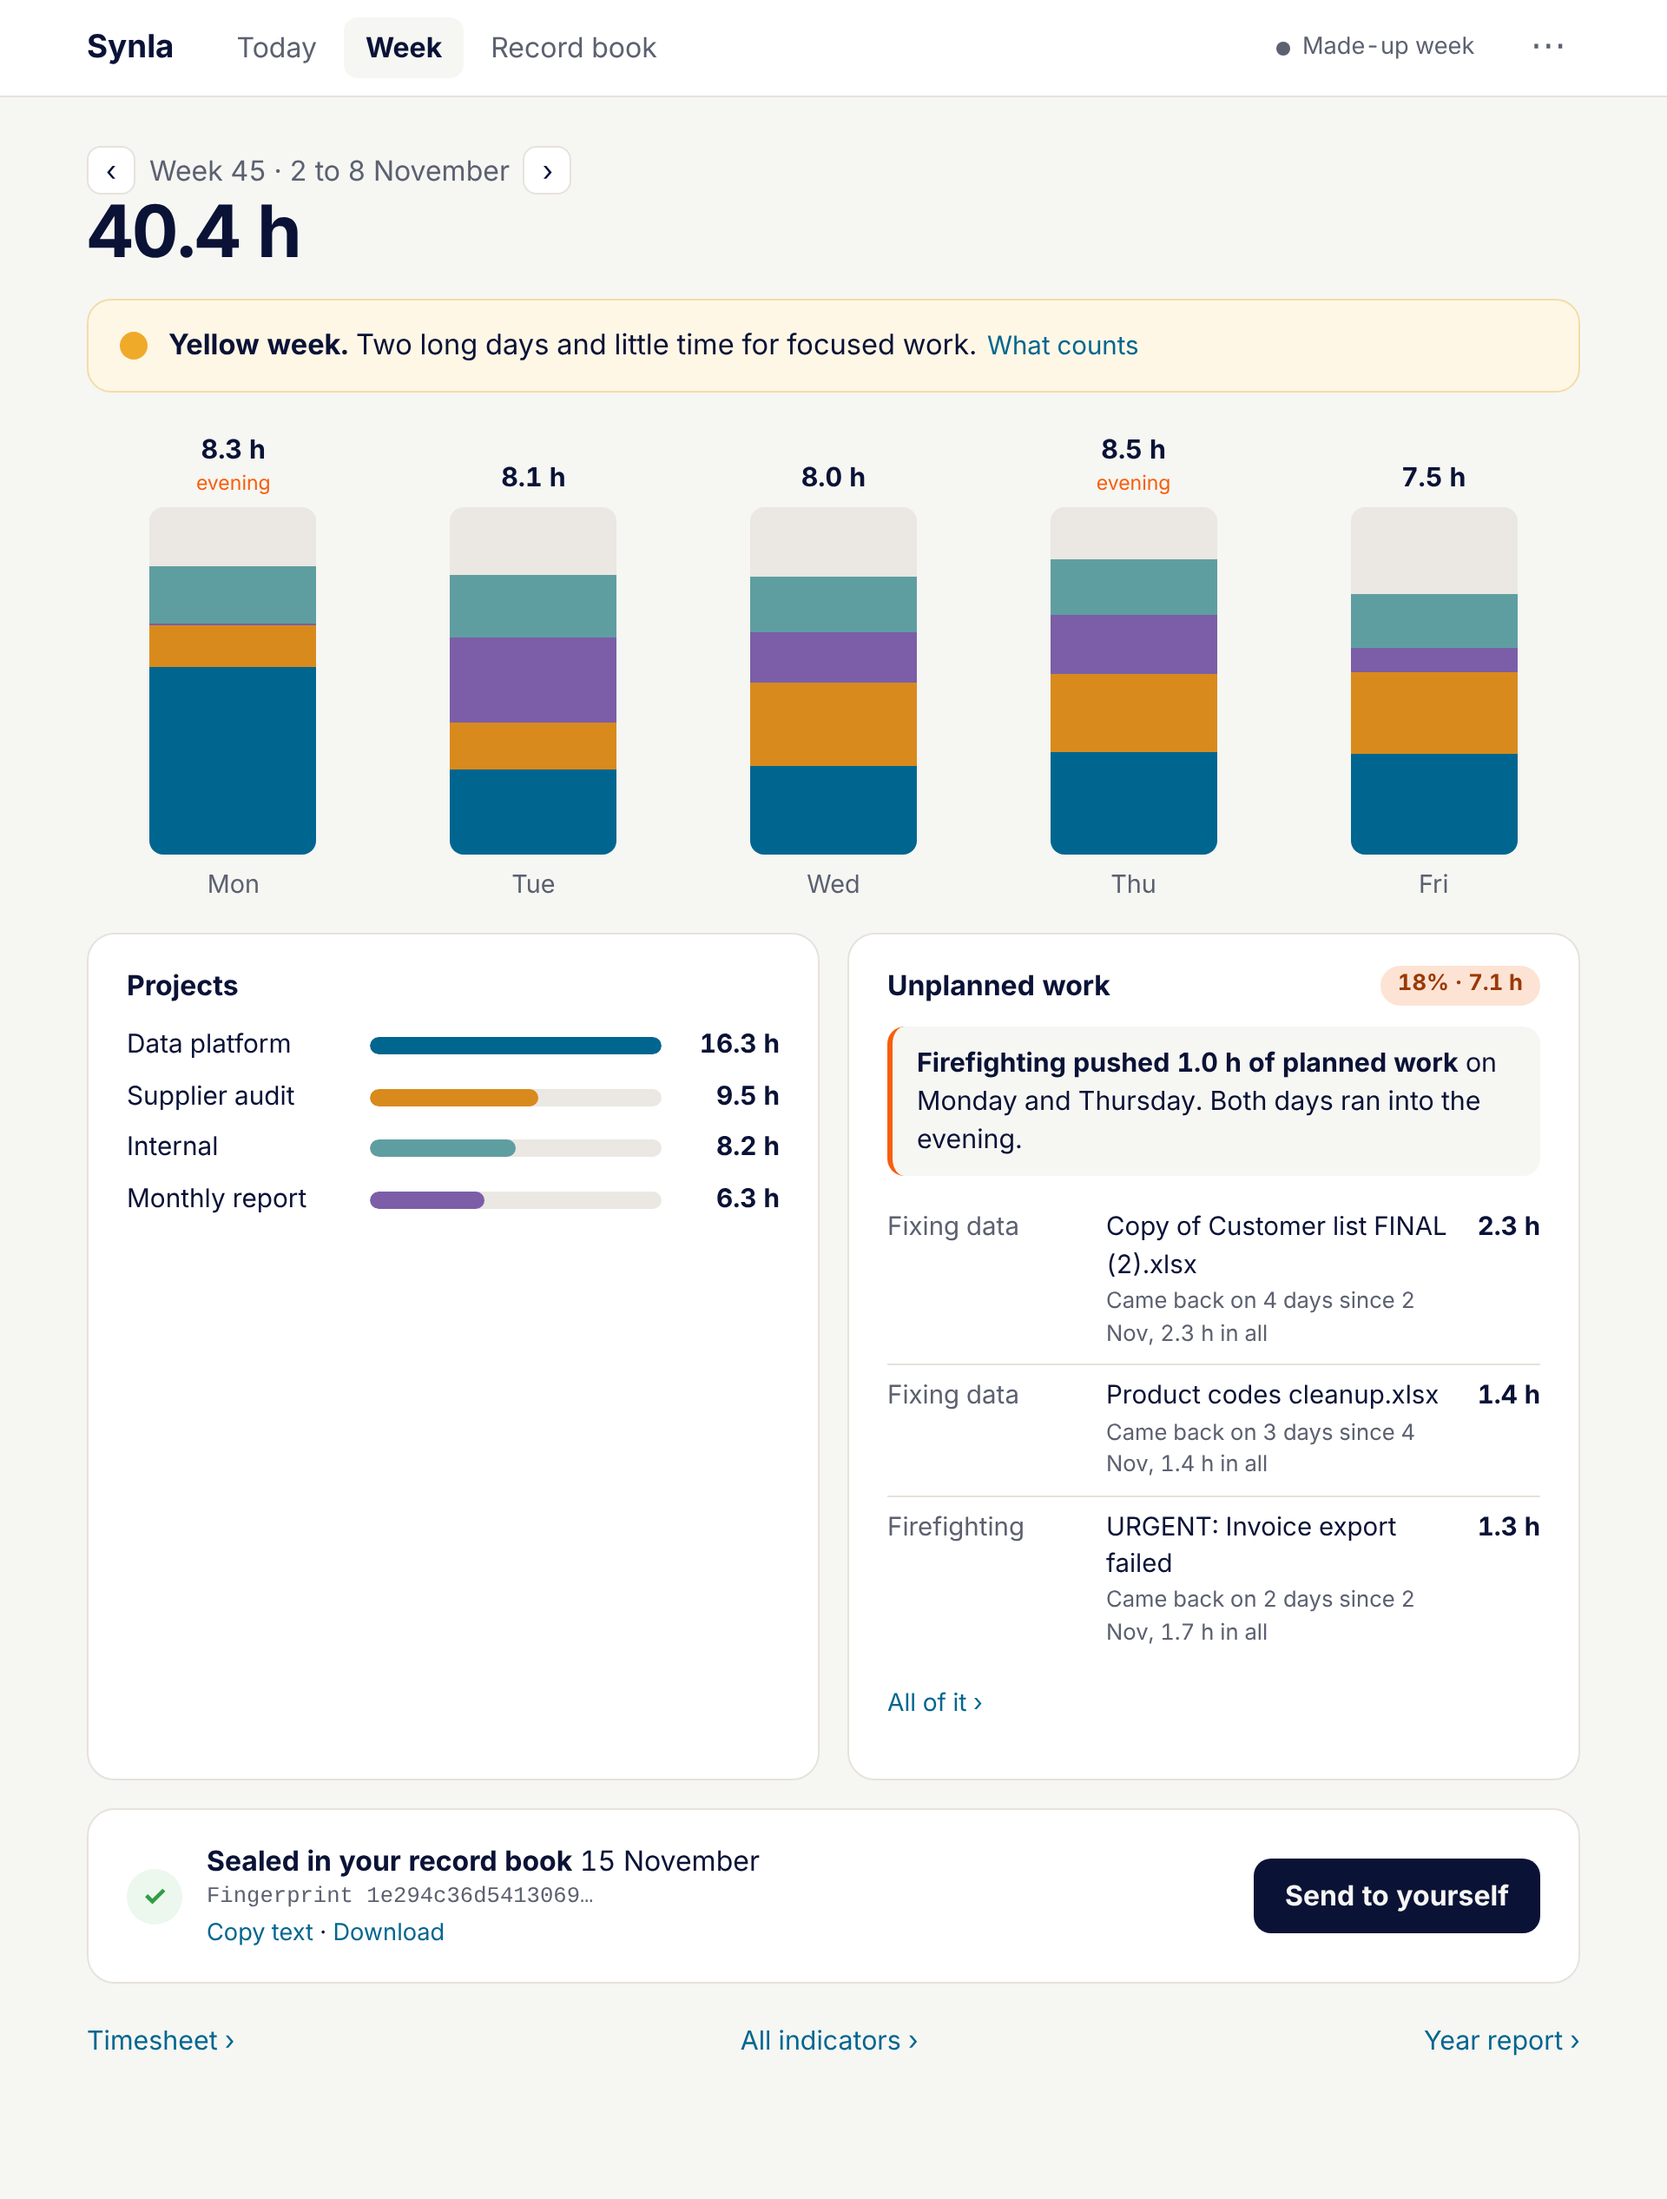
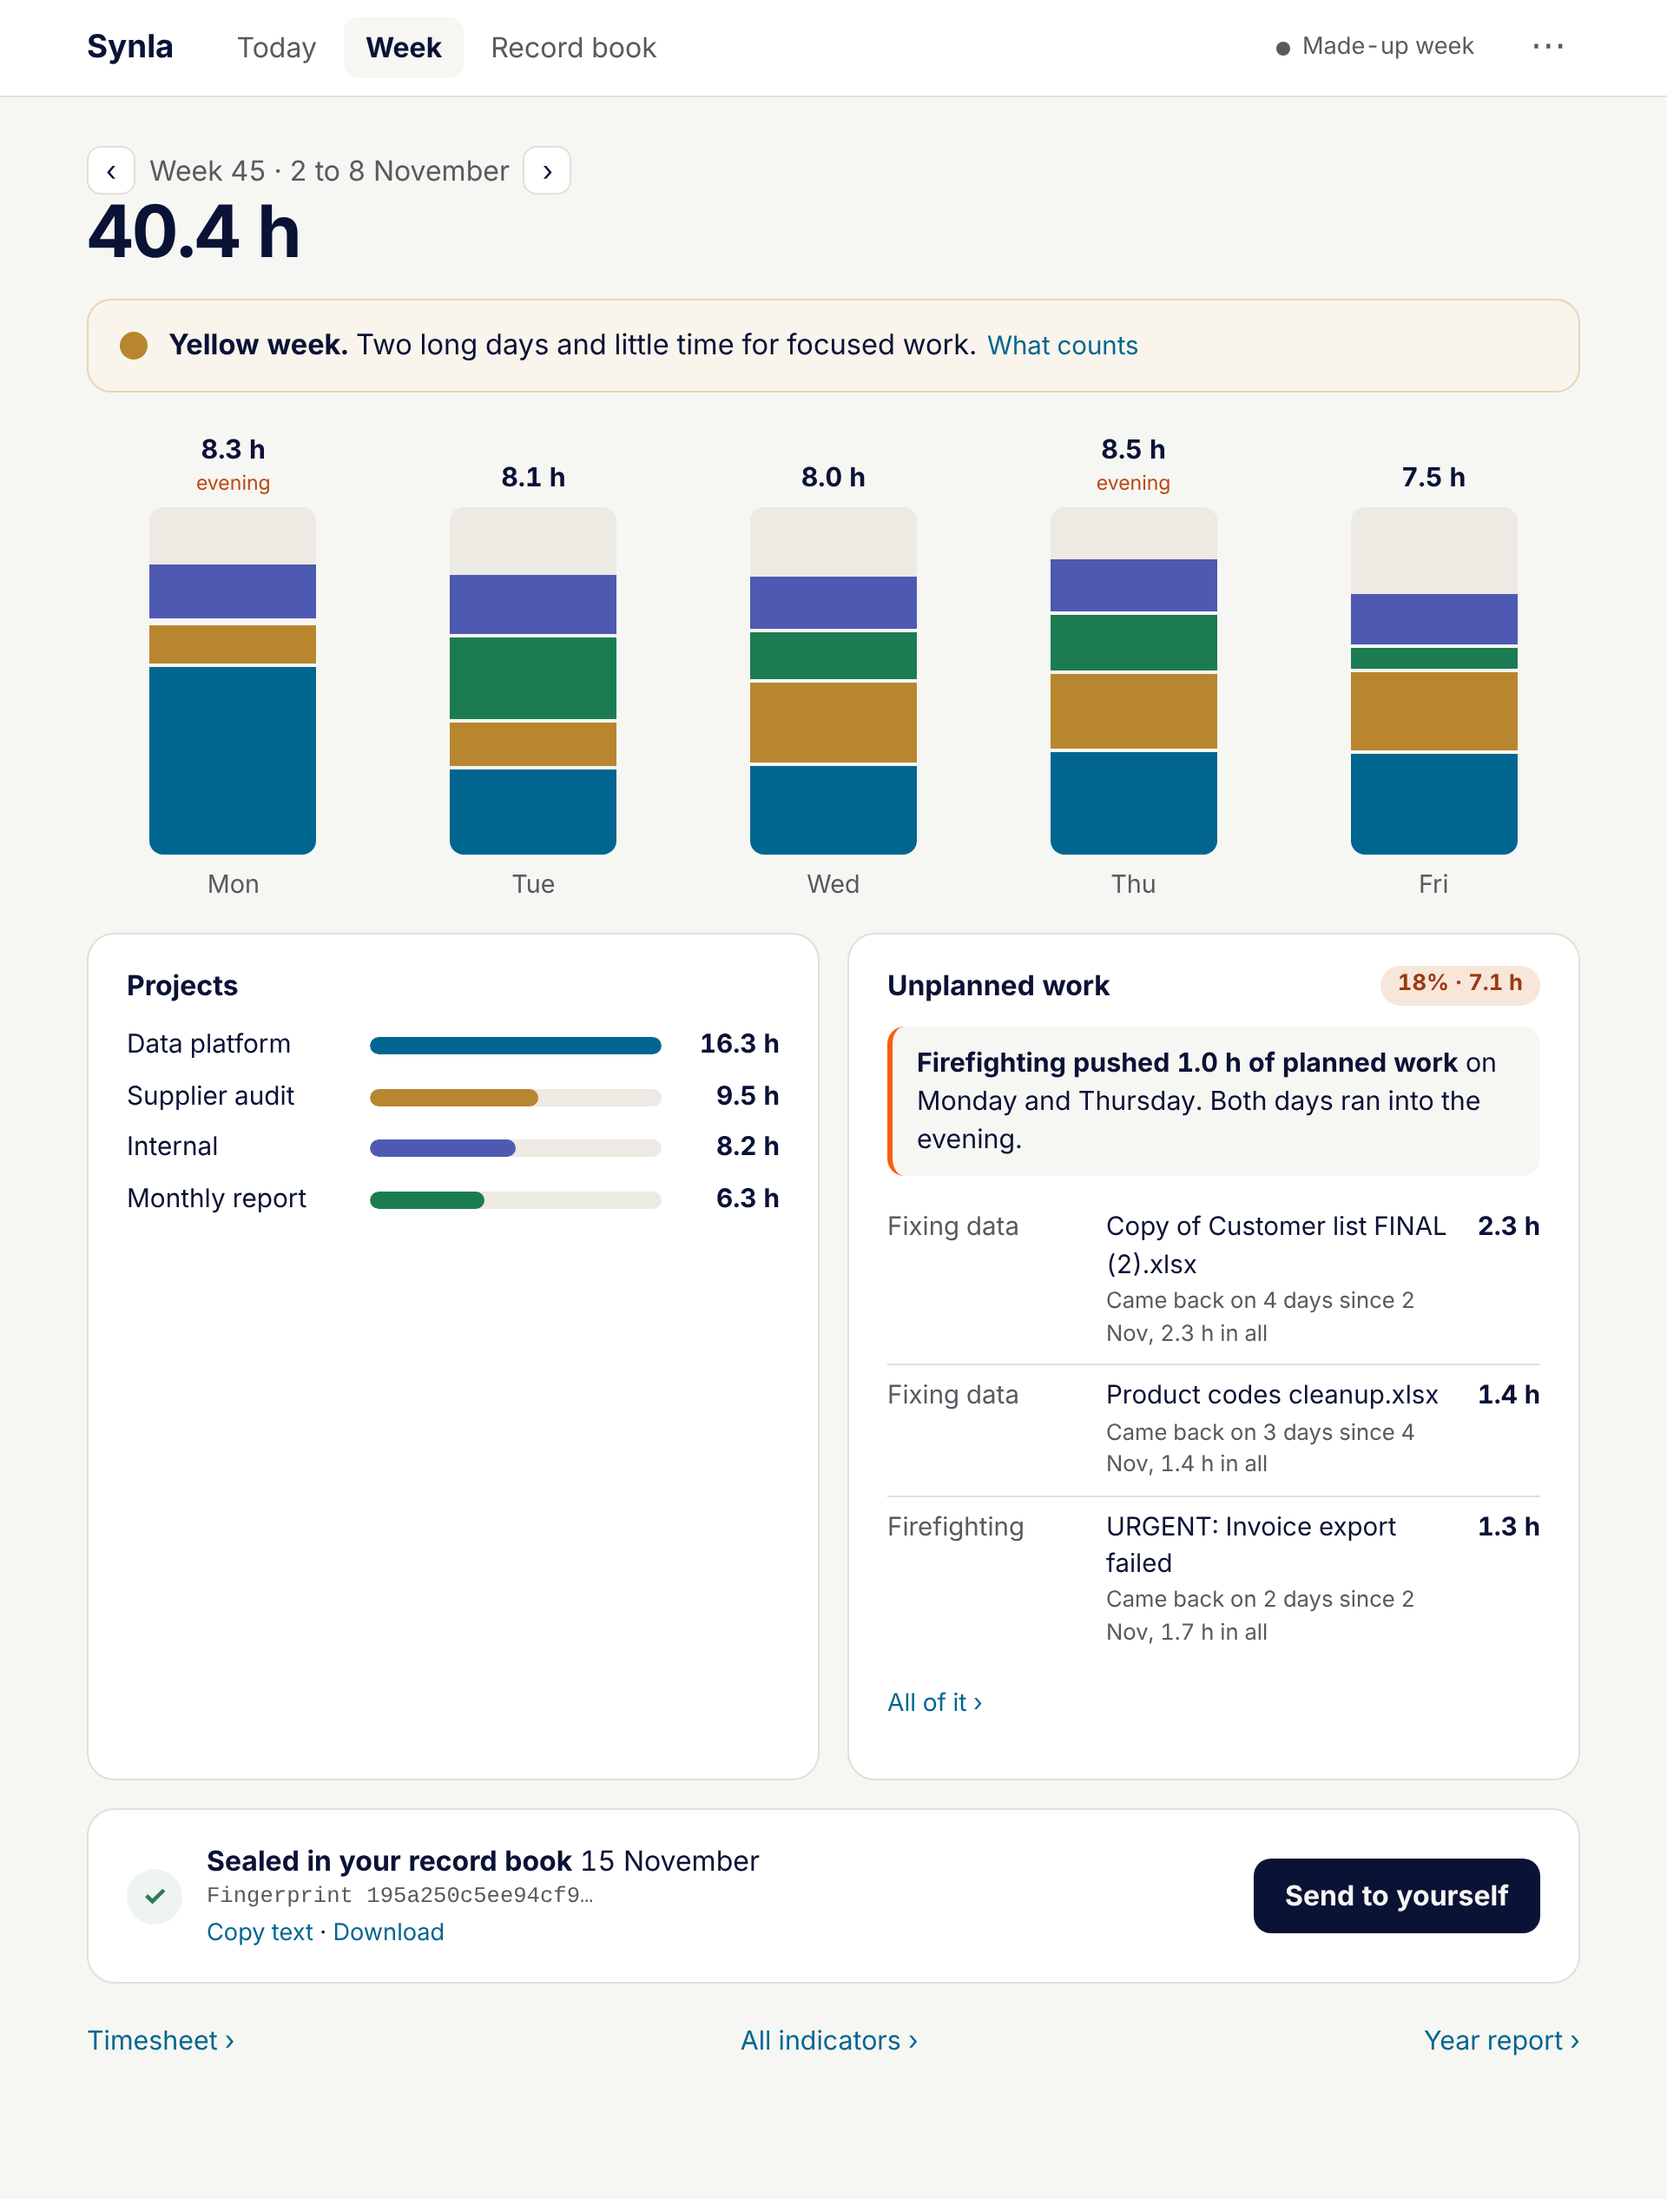
Synla 0.7.1: the colours of Solvi and unadata.dev
Same paper, ink, indigo, ochre, seal and sun in light and dark mode. Project colours from the same palette, checked for colour blindness, with a thin gap between stretches.

diff --git a/synla/server.py b/synla/server.py
@@ -34,20 +34,22 @@ APPS = {"excel.exe": "Excel", "winword.exe": "Word", "powerpnt.exe": "PowerPoint
         "explorer.exe": "File Explorer", "notepad.exe": "Notepad", "onenote.exe": "OneNote", "acrobat.exe": "Acrobat",
         "acrord32.exe": "Acrobat", "slack.exe": "Slack", "zoom.exe": "Zoom", "ssms.exe": "SQL Server Management Studio",
         "devenv.exe": "Visual Studio"}
-PALETTE = 10
+PALETTE = 8      # the colours of Solvi and unadata.dev; checked for colour blindness in light and dark mode
 HEX = re.compile(r"^#[0-9a-fA-F]{6}$")
 NOT_SORTED = "Not sorted"
 
 CSS = """
-:root{--paper:#f6f6f3;--surface:#fff;--ink:#0a1236;--muted:#5c6170;--line:#e7e2dc;--track:#ebe7e2;--sea:#006690;
- --sun:#f85e0a;--hatch:#fbd3bd;--amber:#f0aa2a;--green:#2f9e44;--red:#d9381e;--shadow:#0a12360f;
- --pillbg:#fde3d4;--pillink:#9a3a06;--yellowbg:#fff7e6;--yellowline:#f3dca8;--greenbg:#ecf7ee;--greenline:#c3e5c9;--redbg:#fdeeea;--redline:#f4c6bd;
- --p0:#006690;--p1:#d98a1c;--p2:#7b5ea7;--p3:#5f9ea0;--p4:#c4572a;--p5:#3d7a4a;--p6:#b0517d;--p7:#6b7a8f;--p8:#2f4b7c;--p9:#a68a2a;
+:root{--paper:#f6f6f3;--surface:#fff;--ink:#0a1236;--muted:#585a60;--line:#e6ded6;--track:#ede9e3;--sea:#006690;
+ --sun:#f85e0a;--sunink:#bb4812;--hatch:#f8d2b8;--amber:#f0aa2a;--ochre:#b8862f;--ochreink:#835a0d;--green:#2f7a55;--red:#b23a2a;
+ --shadow:#0a12360f;--toastlink:#f0aa2a;--pillbg:#f7e6da;--pillink:#9b3a0d;--yellowbg:#f9f4ec;--yellowline:#e6d5b6;--greenbg:#eef4f1;
+ --greenline:#c1d7cc;--redbg:#faf1f0;--redline:#e9c8c3;
+ --p0:#006690;--p1:#b8862f;--p2:#1b7c51;--p3:#4e59b1;--p4:#b23a2a;--p5:#119391;--p6:#f85e0a;--p7:#953d7c;
  color-scheme:light}
-@media (prefers-color-scheme:dark){:root{--paper:#0b1230;--surface:#131c42;--ink:#f1efe8;--muted:#a9adbb;--line:#27315e;
- --track:#1d2652;--sea:#6cbbdb;--pillbg:#4a2210;--pillink:#ffb48a;--hatch:#5a2a14;--shadow:#00000040;--yellowbg:#2b2614;--yellowline:#5a4a1e;--greenbg:#12301d;
- --greenline:#245a34;--redbg:#3a1a17;--redline:#6b2a22;
- --p0:#3a9fd0;--p1:#e9a54a;--p2:#a58bd6;--p3:#7cc0c2;--p4:#e07a52;--p5:#6cbf7d;--p6:#d97aa6;--p7:#9aa7ba;--p8:#7f9ee0;--p9:#cdb35a;
+@media (prefers-color-scheme:dark){:root{--paper:#080f2c;--surface:#111c44;--ink:#ece5d4;--muted:#9eabb7;--line:#222d5a;
+ --track:#1a2550;--sea:#5fb3d3;--sun:#fa7a32;--sunink:#fa7a32;--ochre:#d8a64e;--ochreink:#d8a64e;--green:#6cc196;--red:#e46a54;
+ --shadow:#00000040;--toastlink:#9b3a0d;--pillbg:#462312;--pillink:#ffb48a;--hatch:#5d2f19;--yellowbg:#31240e;--yellowline:#5a431a;
+ --greenbg:#132c20;--greenline:#28523c;--redbg:#371b17;--redline:#6a372f;
+ --p0:#1091c9;--p1:#be861d;--p2:#30a46f;--p3:#6d7cdf;--p4:#e46a54;--p5:#15a7a5;--p6:#cd5702;--p7:#bf5da2;
  color-scheme:dark}}
 *{box-sizing:border-box}
 body{margin:0;background:var(--paper);color:var(--ink);font:16px/1.45 "Segoe UI",-apple-system,BlinkMacSystemFont,Inter,system-ui,sans-serif;
@@ -60,7 +62,7 @@ button{font:inherit;color:inherit}
 nav{display:flex;gap:4px}nav a{padding:6px 12px;border-radius:8px;color:var(--muted);white-space:nowrap}
 nav a:hover{text-decoration:none;color:var(--ink)}nav a.on{background:var(--paper);color:var(--ink);font-weight:700}
 .rec{margin-left:auto;font-size:.85rem;color:var(--muted);display:flex;align-items:center;gap:7px;white-space:nowrap}
-.rec i{width:8px;height:8px;border-radius:50%;background:var(--muted)}.rec.on i{background:var(--green);box-shadow:0 0 0 4px #2f9e4422}
+.rec i{width:8px;height:8px;border-radius:50%;background:var(--muted)}.rec.on i{background:var(--green);box-shadow:0 0 0 4px color-mix(in srgb,var(--green) 15%,transparent)}
 .rec.none i{background:var(--red)}.rec .link{margin-left:4px}
 .menu{position:relative}.menu summary{list-style:none;cursor:pointer;color:var(--muted);font-size:1.3rem;line-height:1;padding:4px 8px;border-radius:8px}
 .menu summary::-webkit-details-marker{display:none}.menu[open] summary,.menu summary:hover{background:var(--paper);color:var(--ink)}
@@ -76,9 +78,9 @@ main{max-width:900px;margin:0 auto;padding:28px 20px 80px}
 .big{font-size:2.6rem;font-weight:700;line-height:1.1;letter-spacing:-1px}
 .wl{font-size:.92rem;color:var(--muted);display:flex;align-items:center;gap:7px}.wl b{color:var(--ink)}.wl:hover{text-decoration:none}
 .dot{width:11px;height:11px;border-radius:50%;display:inline-block;flex:none;background:var(--muted)}
-.dot.green{background:var(--green)}.dot.yellow{background:var(--amber)}.dot.red{background:var(--red)}.dot.big{width:16px;height:16px;margin-top:4px}
+.dot.green{background:var(--green)}.dot.yellow{background:var(--ochre)}.dot.red{background:var(--red)}.dot.big{width:16px;height:16px;margin-top:4px}
 .timeline{margin:6px 0 4px}.track{position:relative;height:30px;background:var(--track);border-radius:8px;overflow:hidden}
-.seg{position:absolute;top:0;bottom:0}
+.seg{position:absolute;top:0;bottom:0;box-shadow:inset 2px 0 0 var(--track)}
 .seg.asked{background:color-mix(in srgb,var(--sun) 12%,transparent);outline:2px dashed var(--ink);outline-offset:-2px;border-radius:4px}
 .uns{background:repeating-linear-gradient(45deg,var(--sun) 0 4px,var(--hatch) 4px 8px)!important}
 .ticks{position:relative;height:18px;font-size:.72rem;color:var(--muted)}.tick{position:absolute;transform:translateX(-50%);top:3px}
@@ -129,7 +131,7 @@ main{max-width:900px;margin:0 auto;padding:28px 20px 80px}
 .link{background:none;border:0;color:var(--sea);cursor:pointer;padding:0}
 .done{display:flex;gap:16px;align-items:flex-start;padding:22px 26px}
 .ok{width:32px;height:32px;border-radius:50%;background:var(--greenbg);color:var(--green);display:grid;place-items:center;font-weight:700;flex:none}
-.ok.open{background:var(--paper);color:var(--muted);border:1.5px dashed var(--line)}.ok.warn{background:var(--yellowbg);color:#9a5b00}
+.ok.open{background:var(--paper);color:var(--muted);border:1.5px dashed var(--line)}.ok.warn{background:var(--yellowbg);color:var(--ochreink)}
 .done p{margin:4px 0 0;color:var(--muted)}.done .act{justify-content:flex-start;margin-top:12px}
 .quiet{display:flex;justify-content:space-between;flex-wrap:wrap;gap:10px;margin-top:22px;font-size:.95rem}
 .panel{padding:18px 22px;margin-top:16px}.panel h3{margin:0 0 12px;font-size:1rem;display:flex;justify-content:space-between;align-items:center;gap:8px}
@@ -138,7 +140,7 @@ main{max-width:900px;margin:0 auto;padding:28px 20px 80px}
 .crow:first-of-type{border-top:0}.crow small{display:block;color:var(--muted);font-size:.8rem}
 .crow .t{color:var(--muted)}.crow .w b{font-weight:600;overflow-wrap:anywhere}.crow .pj{display:flex;gap:8px;align-items:flex-start}
 .crow .pj .sw{margin-top:5px;border-radius:50%}.crow .by{font-size:.78rem;color:var(--muted)}.crow .by.you{color:var(--green)}
-.crow .by.unsure{color:var(--sun)}.crow button{justify-self:end}
+.crow .by.unsure{color:var(--sunink)}.crow button{justify-self:end}
 .foot{display:flex;justify-content:space-between;align-items:center;gap:12px;flex-wrap:wrap;border-top:1px solid var(--line);padding-top:12px;margin-top:4px}
 .ask.edit{margin:4px 0 12px;box-shadow:none;border-color:var(--sea)}
 .scope{display:flex;flex-direction:column;gap:4px;font-size:.9rem;margin-bottom:6px}.scope:empty{display:none}
@@ -151,9 +153,9 @@ main{max-width:900px;margin:0 auto;padding:28px 20px 80px}
 .col{display:flex;flex-direction:column;align-items:center;justify-content:flex-end;color:var(--ink)}
 .col:hover{text-decoration:none}.col:hover .stack{outline:2px solid var(--line);outline-offset:3px}
 .col .h{font-weight:700;font-size:.95rem;margin-bottom:6px;display:flex;flex-direction:column;align-items:center;min-height:38px;justify-content:flex-end}
-.late{font-size:.72rem;font-weight:400;color:var(--sun)}
+.late{font-size:.72rem;font-weight:400;color:var(--sunink)}
 .stack{width:64%;max-width:96px;display:flex;flex-direction:column-reverse;height:200px;border-radius:8px;overflow:hidden;background:var(--track)}
-.stack span{display:block;width:100%;flex:none}
+.stack span{display:block;width:100%;flex:none}.stack span+span{border-bottom:2px solid var(--paper)}
 .col .d{margin-top:8px;color:var(--muted);font-size:.9rem}
 .two{display:grid;grid-template-columns:1fr 1fr;gap:16px;margin-top:16px}.two .panel{margin-top:0}
 .pill{font-size:.8rem;background:var(--pillbg);color:var(--pillink);border-radius:999px;padding:2px 10px;font-weight:700;white-space:nowrap}
@@ -187,7 +189,7 @@ ul.plain{margin:6px 0;padding-left:20px}ul.plain li{margin:4px 0}
 .offscreen{position:absolute;left:-9999px;width:1px;height:1px}
 #toast{position:fixed;left:50%;bottom:24px;transform:translate(-50%,20px);opacity:0;pointer-events:none;background:var(--ink);color:var(--paper);
  border-radius:12px;padding:11px 16px;display:flex;gap:16px;align-items:center;box-shadow:0 12px 32px #0a123640;transition:.2s;z-index:30;max-width:92vw}
-#toast.show{opacity:1;transform:translate(-50%,0);pointer-events:auto}#toast button{background:none;border:0;color:var(--amber);font-weight:700;cursor:pointer}
+#toast.show{opacity:1;transform:translate(-50%,0);pointer-events:auto}#toast button{background:none;border:0;color:var(--toastlink);font-weight:700;cursor:pointer}
 @media (max-width:720px){.top .in{gap:8px;padding:10px 12px}nav a{padding:6px 7px;font-size:.92rem}.brand{font-size:1rem}.rec span{display:none}main{padding:20px 14px 80px}
  .row{grid-template-columns:1fr;gap:6px}.lab{padding-top:0}.hint{margin-left:0}.ask{padding:18px 16px}.two{grid-template-columns:1fr}
  .crow{grid-template-columns:1fr auto}.crow .t,.crow .by{display:none}.crow .pj{grid-column:1}.weekgrid{gap:6px}.stack{width:80%;height:160px}

diff --git a/synla/__init__.py b/synla/__init__.py
@@ -1,2 +1,2 @@
 """Synla: logs your hours from what you actually did, and makes the unplanned work visible."""
-__version__ = "0.7.0"
+__version__ = "0.7.1"
